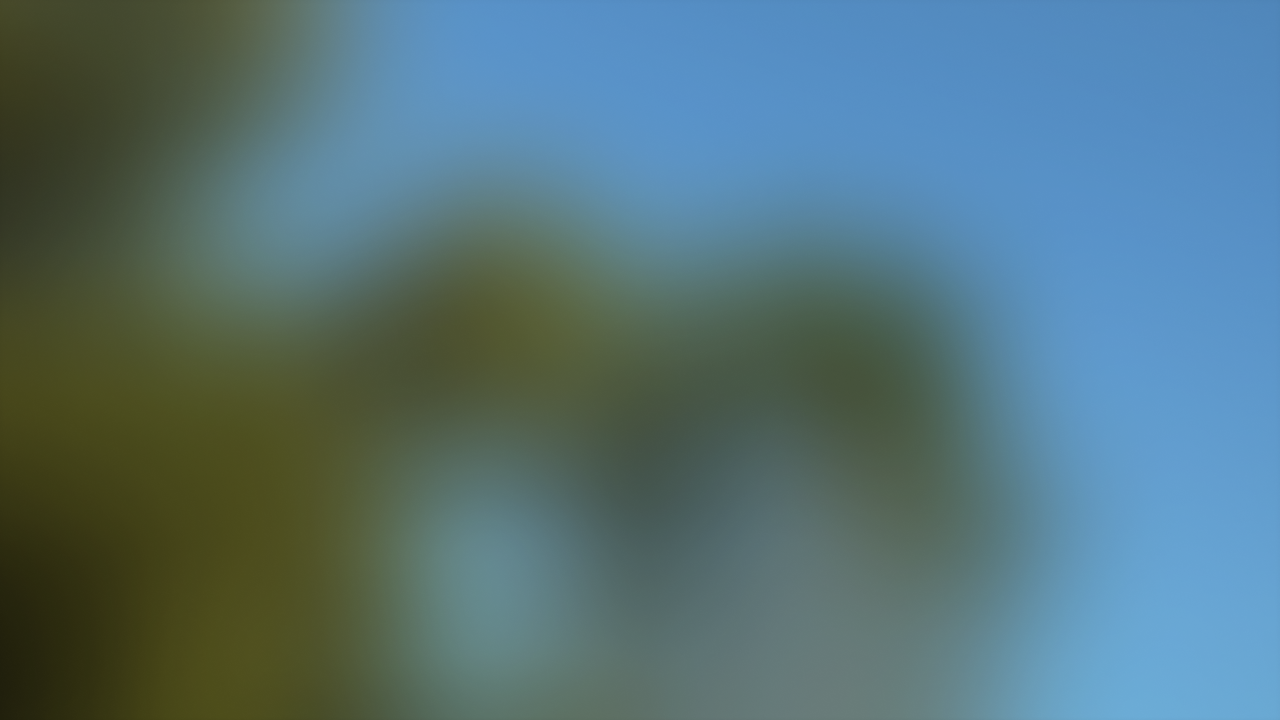
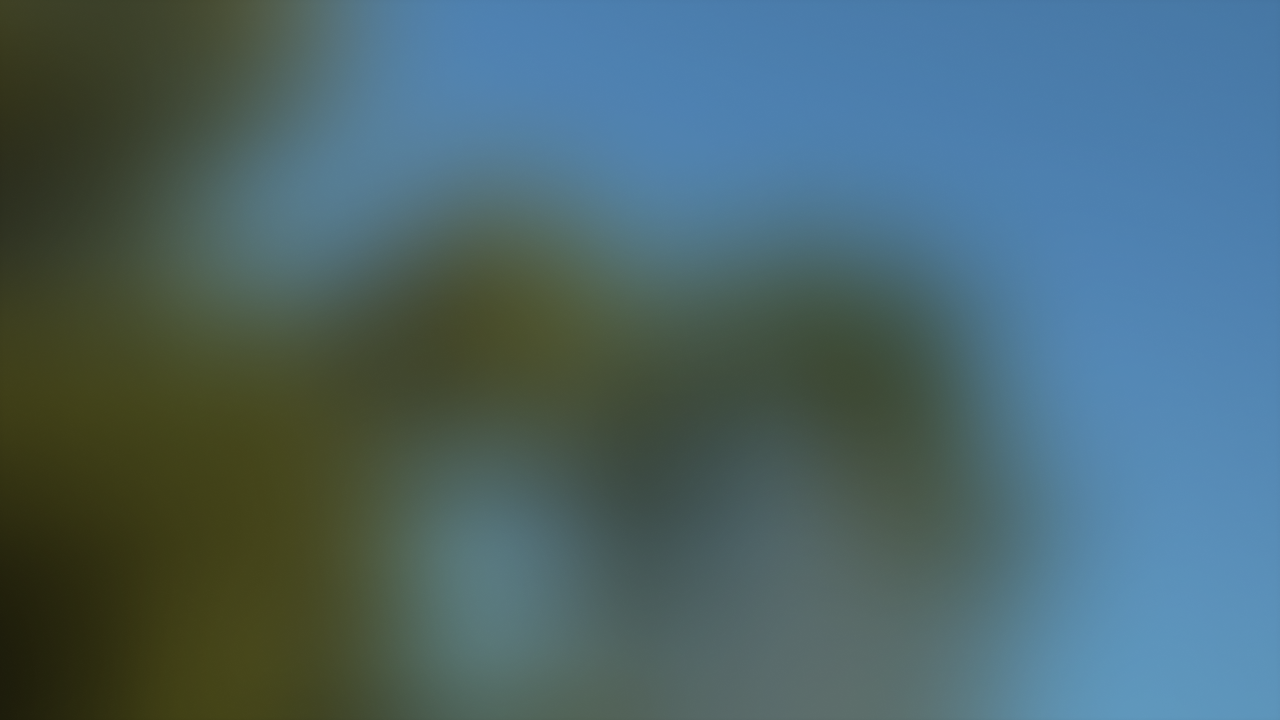
August 12 update 4

Changed region(s): [[0.8438, 0.5194, 1.0, 1.0], [0.875, 0.5194, 0.9062, 0.55]]

diff --git a/index.html b/index.html
@@ -8,10 +8,10 @@
 <meta name="viewport" content="width=device-width, initial-scale=1.0, viewport-fit=cover">
 <meta name="theme-color" content="#000000" media="(prefers-color-scheme: dark)">
 <meta name="theme-color" content="#ffffff" media="(prefers-color-scheme: light)">
-<link rel="preload" as="image" href="https://beta.derekyt.dev/assets/bg-images/aug-12-home-background-desktop-dark.png">
-<link rel="preload" as="image" href="https://beta.derekyt.dev/assets/bg-images/aug-12-home-background-mobile-dark.png">
-<link rel="preload" as="image" href="https://beta.derekyt.dev/assets/bg-images/aug-12-home-background-desktop-light.png">
-<link rel="preload" as="image" href="https://beta.derekyt.dev/assets/bg-images/aug-12-home-background-mobile-light.png">
+<link rel="preload" as="image" href="https://beta.derekyt.dev/assets/bg-images/aug-12-home-background-desktop-dark.png" media="(min-width: 601px) and (prefers-color-scheme: dark)">
+<link rel="preload" as="image" href="https://beta.derekyt.dev/assets/bg-images/aug-12-home-background-mobile-dark.png" media="(max-width: 600px) and (prefers-color-scheme: dark)">
+<link rel="preload" as="image" href="https://beta.derekyt.dev/assets/bg-images/aug-12-home-background-desktop-light.png" media="(min-width: 601px) and (prefers-color-scheme: light)">
+<link rel="preload" as="image" href="https://beta.derekyt.dev/assets/bg-images/aug-12-home-background-mobile-light.png" media="(max-width: 600px) and (prefers-color-scheme: light)">
     <style>
         button, input, select, textarea {
             font-family: inherit;
@@ -40,6 +40,12 @@
             justify-content:space-between;
             font-size:14px;
             letter-spacing:0em;
+        }
+
+        @media (max-width:600px) {
+            body {
+                background-attachment:scroll;
+            }
         }
 
         @media (prefers-color-scheme: light) {
